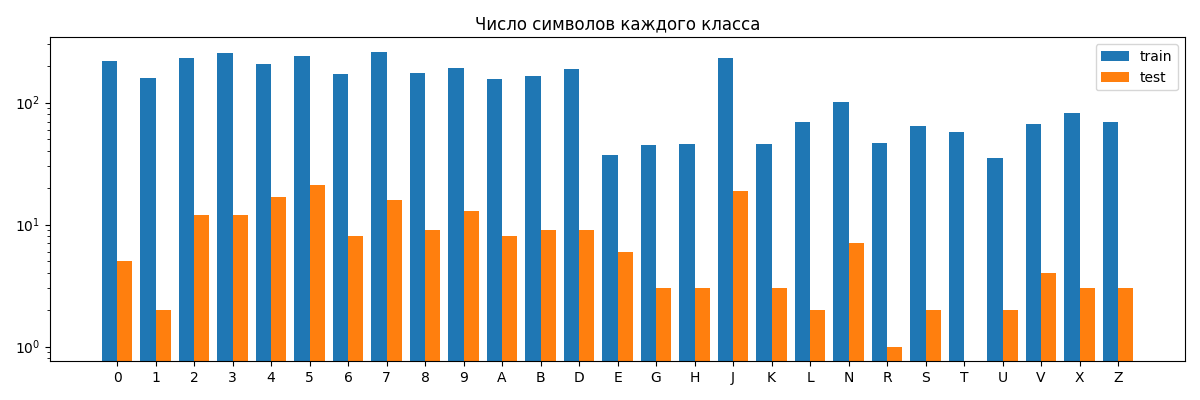
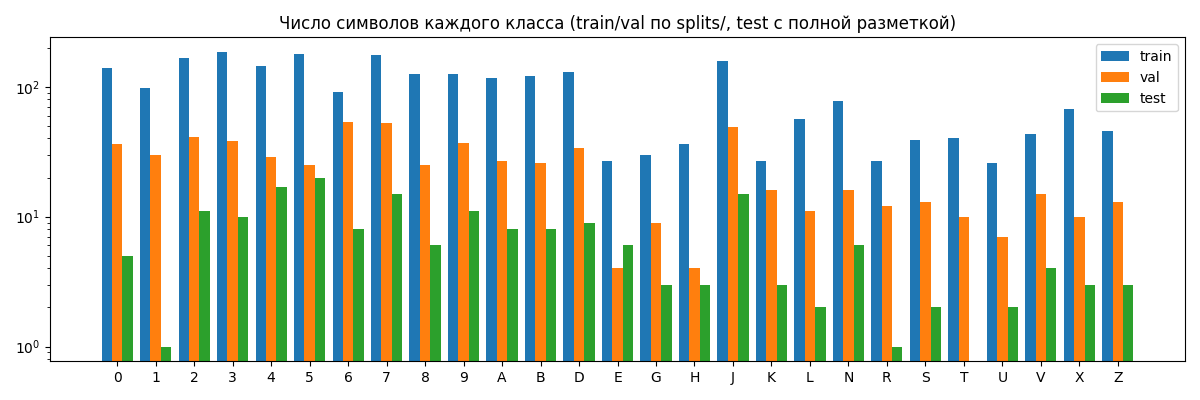
Keep plates with many frames in train and report per-plate Exact Match and class coverage

diff --git a/explore_data.py b/explore_data.py
@@ -16,6 +16,7 @@ from src.data.quality import is_clean_annotation
 
 DATA_DIR = Path("number_plates")
 FIGURES_DIR = Path("reports/figures")
+SPLITS_DIR = Path("splits")
 SPLITS = ["train", "test"]
 SEED = 42
 # Допуск сверки рамок .xml и .txt: при конвертации VOC (с 1) в YOLO (с 0) центры сдвинуты на 1 px
@@ -98,6 +99,12 @@ def print_summary(data):
         print(f"  сверка .xml/.txt/изображения: {dict(issues) or 'расхождений нет'}")
 
     print(f"Исправлено ошибок разметки: {len(LABEL_FIXES)} {list(LABEL_FIXES.values())}")
+    coverage = class_coverage(data)
+    rare = [c for i, c in enumerate(CLASSES) if min(coverage["val"][i], coverage["test"][i]) < 5]
+    print("Символов по классам (train/val/test):")
+    print(" ".join(f"{c}:{'/'.join(str(coverage[s][i]) for s in coverage)}" for i, c in enumerate(CLASSES)))
+    print(f"Меньше 5 примеров в val или test: {rare}")
+
     test_classes = {class_id for row in data["test"] for class_id in row["class_ids"]}
     print(f"Классы без примеров в test: {[CLASSES[i] for i in range(len(CLASSES)) if i not in test_classes]}")
 
@@ -107,15 +114,25 @@ def print_summary(data):
     print(f"Номеров test, встречающихся в train: {len(seen)}/{len(data['test'])}")
 
 
+def class_coverage(data):
+    """Число символов каждого класса в выборках, на которых модель учится и оценивается."""
+    rows_by_name = {row["img_path"].name: row for row in data["train"]}
+    splits = {
+        name: [rows_by_name[n] for n in (SPLITS_DIR / f"{name}.txt").read_text().split()] for name in ["train", "val"]
+    }
+    splits["test"] = [row for row in data["test"] if row["clean"]]
+    return {name: Counter(class_id for row in rows for class_id in row["class_ids"]) for name, rows in splits.items()}
+
+
 def plot_class_distribution(data):
+    coverage = class_coverage(data)
     fig, ax = plt.subplots(figsize=(12, 4))
-    width = 0.4
-    for offset, split in zip([-width / 2, width / 2], SPLITS, strict=True):
-        counts = Counter(class_id for row in data[split] for class_id in row["class_ids"])
+    width = 0.27
+    for offset, (split, counts) in zip([-width, 0, width], coverage.items(), strict=True):
         ax.bar([i + offset for i in range(len(CLASSES))], [counts[i] for i in range(len(CLASSES))], width, label=split)
     ax.set_xticks(range(len(CLASSES)), CLASSES)
     ax.set_yscale("log")
-    ax.set_title("Число символов каждого класса")
+    ax.set_title("Число символов каждого класса (train/val по splits/, test с полной разметкой)")
     ax.legend()
     return fig
 

diff --git a/evaluate.py b/evaluate.py
@@ -5,6 +5,7 @@
 """
 
 import argparse
+from collections import defaultdict
 from pathlib import Path
 
 import numpy as np
@@ -76,13 +77,20 @@ def evaluate(img_paths, labels_dir, predict, train_plates):
 
 
 def summarize(rows, title):
-    """Печатает Exact Match с доверительным интервалом и средний CER."""
+    """Печатает Exact Match с доверительным интервалом, средний CER и Exact Match по номерам."""
     correct = sum(row["gt"] == row["pred"] for row in rows)
     low, high = wilson_interval(correct, len(rows))
     mean_cer = sum(cer(row["gt"], row["pred"]) for row in rows) / len(rows)
+
+    # Один номер снят многократно: среднее по номерам не даёт частому номеру перевесить остальные
+    plates = defaultdict(list)
+    for row in rows:
+        plates[row["gt"]].append(row["gt"] == row["pred"])
+    per_plate = sum(sum(hits) / len(hits) for hits in plates.values()) / len(plates)
+
     print(
         f"{title}: Exact Match {correct / len(rows):.1%} ({correct}/{len(rows)}), "
-        f"95% ДИ [{low:.1%}; {high:.1%}], CER {mean_cer:.1%}"
+        f"95% ДИ [{low:.1%}; {high:.1%}], CER {mean_cer:.1%}, по номерам {per_plate:.1%} ({len(plates)} номеров)"
     )
 
 

diff --git a/tests/test_evaluate.py b/tests/test_evaluate.py
@@ -40,7 +40,20 @@ def test_summarize_prints_exact_match_interval_and_cer(capsys):
 
     evaluate.summarize(rows, "test")
 
-    assert capsys.readouterr().out == "test: Exact Match 50.0% (1/2), 95% ДИ [9.5%; 90.5%], CER 7.1%\n"
+    assert capsys.readouterr().out == (
+        "test: Exact Match 50.0% (1/2), 95% ДИ [9.5%; 90.5%], CER 7.1%, по номерам 50.0% (1 номеров)\n"
+    )
+
+
+def test_summarize_weights_plates_equally(capsys):
+    # Частый номер распознан на всех 3 кадрах, редкий - нет
+    rows = [{"gt": "1111AAA", "pred": "1111AAA"}] * 3 + [{"gt": "2222BBB", "pred": "2222BB"}]
+
+    evaluate.summarize(rows, "val")
+
+    out = capsys.readouterr().out
+    assert "Exact Match 75.0% (3/4)" in out
+    assert "по номерам 50.0% (2 номеров)" in out
 
 
 def test_fcos_predictor_returns_boxes_classes_and_scores(tmp_path):

diff --git a/split_data.py b/split_data.py
@@ -12,6 +12,8 @@ TRAIN_DIR = Path("number_plates/train")
 SPLITS_DIR = Path("splits")
 VAL_FRACTION = 0.2
 SEED = 42
+# Номер, снятый больше 5 раз, занял бы заметную часть val (5732NXD - 40 кадров), поэтому идёт только в train
+MAX_VAL_FRAMES = 5
 
 
 def plate_key(txt_path):
@@ -32,7 +34,8 @@ def split_by_plate(images, val_fraction=VAL_FRACTION, seed=SEED):
 
     train, val = [], []
     for key in keys:
-        target = val if len(val) < val_fraction * len(images) else train
+        fits_val = len(groups[key]) <= MAX_VAL_FRAMES and len(val) < val_fraction * len(images)
+        target = val if fits_val else train
         target.extend(groups[key])
     return sorted(train), sorted(val)
 

diff --git a/tests/test_split.py b/tests/test_split.py
@@ -42,6 +42,15 @@ def test_same_plate_never_in_both_splits(images):
     assert sorted(train + val) == images
 
 
+def test_plate_with_many_frames_goes_to_train(tmp_path):
+    frequent = [make_image(tmp_path, f"often_{i}.jpeg", [5, 7, 3, 2]) for i in range(split_data.MAX_VAL_FRAMES + 1)]
+    rare = [make_image(tmp_path, f"img_{i}.jpeg", [i, 1]) for i in range(10)]
+
+    for seed in range(5):
+        train, _ = split_data.split_by_plate(sorted(frequent + rare), seed=seed)
+        assert set(frequent) <= set(train)
+
+
 def test_split_is_deterministic_and_close_to_fraction(images):
     first = split_data.split_by_plate(images)
 

diff --git a/README.md b/README.md
@@ -137,10 +137,10 @@ CI (GitHub Actions) запускает линтеры и тесты на Python 
 ## Методология
 
 1. Данные: учитываются изображения всех форматов (`.jpeg`, `.jpg`, `.png`); изображения с неполной разметкой (не 7 символов или боксы-«клики») не используются ни в обучении, ни в оценке.
-2. Разделение: train/val 80/20 из исходного train группами по номеру - снимки одного номера не попадают одновременно в train и val (списки в `splits/`, пересоздать - `make split`). Официальный test используется только для финальной оценки.
+2. Разделение: train/val 80/20 из исходного train группами по номеру - снимки одного номера не попадают одновременно в train и val, номера с больше чем 5 кадрами - только в train (списки в `splits/`, пересоздать - `make split`). Официальный test используется только для финальной оценки.
 3. Аугментация: Albumentations (Affine, MotionBlur, GaussianBlur, RandomBrightnessContrast, HueSaturationValue, GaussNoise, ISONoise; seed 42) + встроенные аугментации YOLO (Mosaic, HSV, сдвиг и масштаб) без отражений: `fliplr: 0`, зеркальный символ - это другой глиф.
 4. Постобработка: геометрический фильтр, отбрасывающий детекции с выбросами по высоте и по линии, и ограничение длины номера (до 7 самых уверенных символов). Общий для YOLO и FCOS.
-5. Оценка: Exact Match с 95% доверительным интервалом Уилсона и CER; порог уверенности подбирается на val, test запускается один раз. Результат выводится отдельно для номеров, которые есть в train, и для новых номеров.
+5. Оценка: Exact Match с 95% доверительным интервалом Уилсона, CER и Exact Match по номерам (каждый номер с одинаковым весом); порог уверенности подбирается на val, test запускается один раз. Результат выводится отдельно для номеров, которые есть в train, и для новых номеров.
 
 ## Классы (27 символов)
 

diff --git a/reports/eda.md b/reports/eda.md
@@ -34,7 +34,9 @@
 
 - Цифры встречаются в разы чаще большинства букв: на каждый номер приходится 4 цифры и 3 буквы,
   а буквы распределены неравномерно (`J`, `A`, `B`, `D` - частые; `E`, `U`, `G`, `H`, `K`, `R` - редкие).
-- В test нет ни одного `T`, у многих букв 1-3 примера: поклассовые метрики на test не информативны.
+- На графике - выборки, на которых модель учится и оценивается: train и val по `splits/`, test с полной разметкой.
+  В val у каждого класса не меньше 4 примеров (меньше всего у `E` и `H`). В test нет ни одного `T`, у 12 классов
+  меньше 5 примеров: поклассовые выводы можно делать только по val.
 
 ## Проверка разметки
 
@@ -98,7 +100,11 @@
 
 - В train 563 изображения, но только 286 уникальных номеров; `5732NXD` встречается 40 раз.
 - Случайное разбиение по изображениям даёт утечку: один и тот же автомобиль попадает в train и val.
-  Поэтому `split_data.py` делит по строке номера (группами) - 359 train / 90 val.
+  Поэтому `split_data.py` делит по строке номера (группами) - 357 train / 92 val.
+- Номер, снятый больше 5 раз, при делении по номеру целиком попал бы в val и занял бы заметную его часть:
+  у `5732NXD` 40 кадров, это почти половина val. Такие номера (7 штук, 86 изображений) всегда идут в train,
+  поэтому в val 45 номеров и не больше 5 кадров каждого. `evaluate.py` дополнительно показывает Exact Match
+  по номерам - среднее, где каждый номер весит одинаково.
 - 23 из 30 номеров test встречаются в train. Официальный test проверяет в основном запоминание, поэтому
   `evaluate.py` отдельно показывает точность на номерах, которых не было в train.
 

diff --git a/REPORT.md b/REPORT.md
@@ -29,7 +29,7 @@
 1. **PNG** - около 23% изображений; их нужно учитывать наравне с jpeg.
 2. **Неполная разметка** - у 109 изображений train и 4 test меньше 7 боксов, хотя номер на картинке полный. Такие изображения исключаются из обучения и оценки (`src/data/quality.py`): остаётся 449 изображений train и 26 test.
 3. **Ошибки в символах** - `.xml` и `.txt` согласованы, но у 4 изображений train один символ размечен неверно. Исправляется при чтении (`LABEL_FIXES`), иначе кадры одного автомобиля попадают и в train, и в val.
-4. **Повторы номеров** - 286 уникальных номеров на 563 изображения train (`5732NXD` - 40 раз), 23 из 30 номеров test есть в train. Train/val делится по номеру, а результат на test показывается отдельно для новых номеров.
+4. **Повторы номеров** - 286 уникальных номеров на 563 изображения train (`5732NXD` - 40 раз), 23 из 30 номеров test есть в train. Train/val делится по номеру, номера с больше чем 5 кадрами (7 номеров) - только в train, чтобы один номер не занимал половину val; результат на test показывается отдельно для новых номеров.
 5. **Дисбаланс классов** - цифры встречаются в разы чаще большинства букв; в test нет ни одного `T`.
 6. **Размеры** - ширина от 52 до 2506 px; соотношение сторон около 2:1.
 
